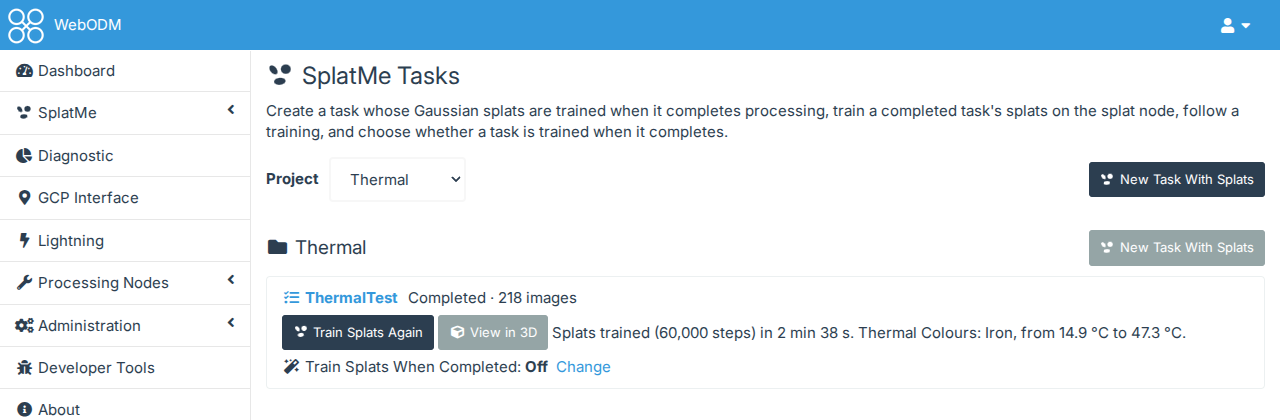
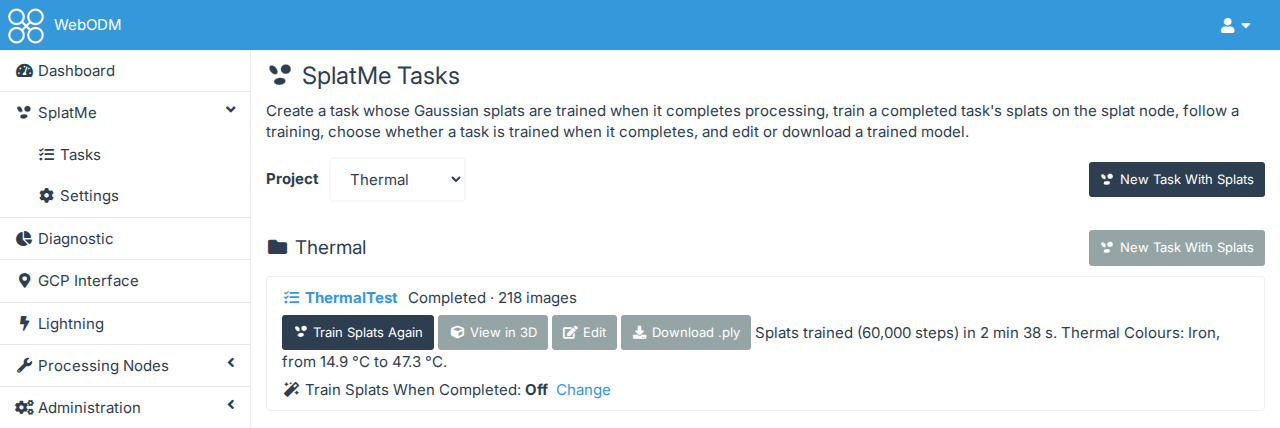
Docs: SplatMe → Tasks with Edit and Download .ply, and Edit Splats, as screenshots

diff --git a/docs/editing.md b/docs/editing.md
@@ -11,6 +11,8 @@ On **SplatMe → Tasks**, a task whose splats SplatMe trained has **Edit** besid
 change the task's project. It opens **Edit Splats**: the trained model in a 3D view, with the edits' panel to its
 right, or below it on a phone. Anyone who may see the task has **Download .ply** instead.
 
+![Edit Splats with a box picked: its handles in the view, its fields under the list](assets/screenshots/editing.png)
+
 The page loads the trained model whole into the browser. A model larger than 400 MB (about 1.7 million splats)
 asks first: it may be slow, or fail on a phone or a computer with little memory.
 
